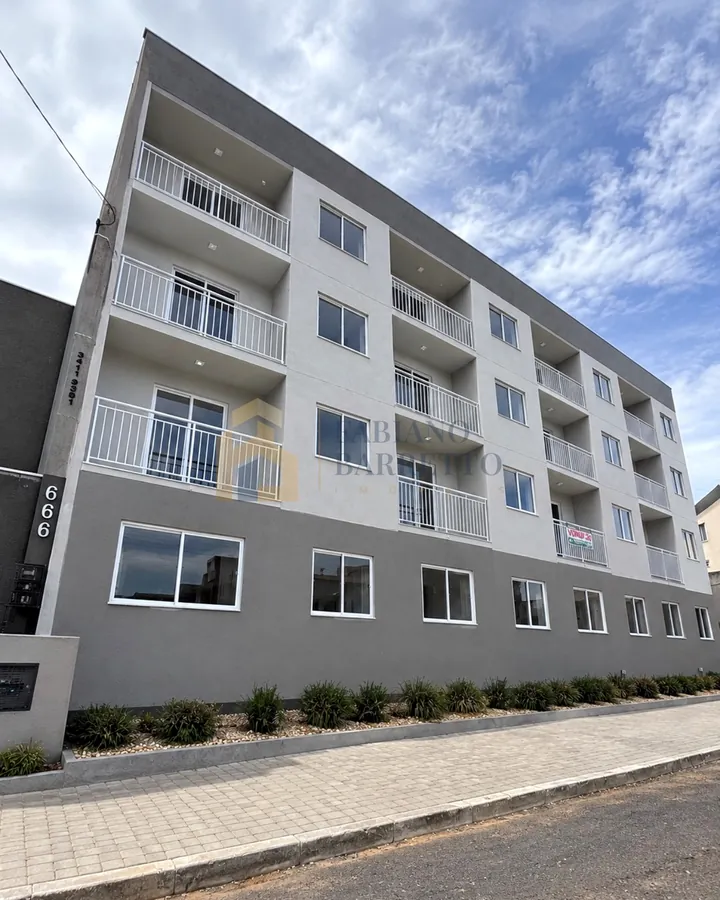
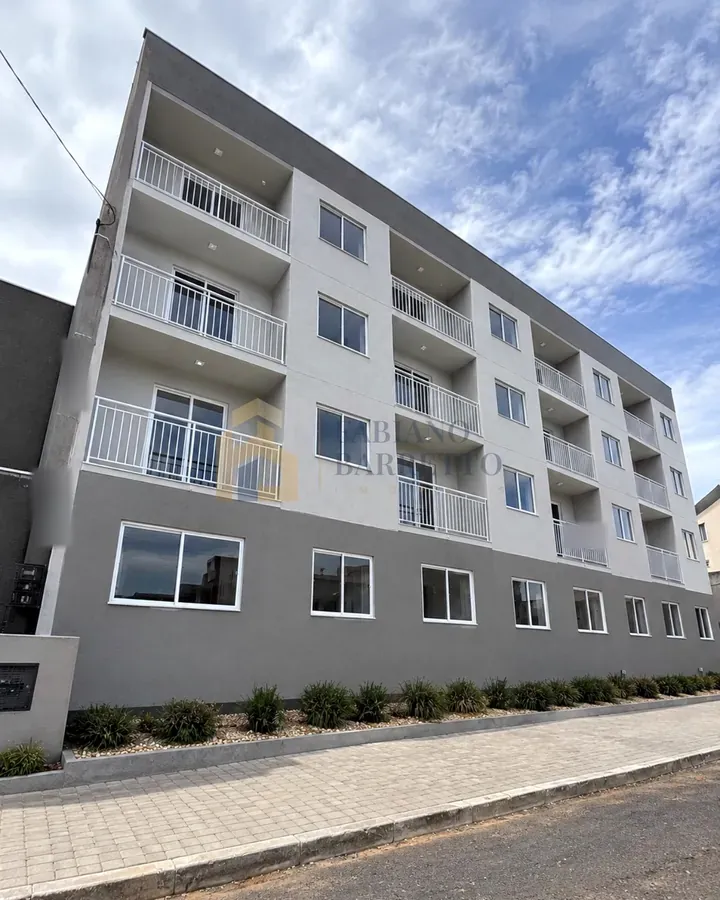
Fachadas: números de casa/prédio, telefone no poste e placa de venda borrados

Changed region(s): [[0.0306, 0.4978, 0.1222, 0.6222], [0.0611, 0.3733, 0.1222, 0.4667], [0.7639, 0.56, 0.825, 0.6222]]

diff --git a/CHANGELOG.md b/CHANGELOG.md
@@ -64,3 +64,6 @@ Responsável: agente dev-site (subordinado ao coordenador).
 
 ## 2026-11-17
 - **Imóvel novo**: Apartamento de 1 dormitório pronto para morar, Jardim Algarve, Alvorada (MCMV, a partir de R$ 162.000, 28 m², sem etiqueta, sem vaga na ficha). 5 fotos tratadas (commit 200059a); fachada e banheiro com versão 4:5 na galeria. Não repete os outros 1D do Jardim Algarve (prédio diferente nas fotos, valor e área próprios). Sem nome de rua, de empreendimento nem endereço. URL no `sitemap.xml`.
+
+## 2026-11-24
+- **Números e placas borrados nas fachadas** (para não expor endereço): desfoque forte e ilegível nos números de casa/prédio, no telefone escrito no poste e na placa de venda, mantendo a marca d'água, o tamanho (1200×900 e 720×900) e a qualidade (WebP q80). Fotos alteradas: `apartamento-1-dormitorio-jardim-algarve-em-obra/01` e `01-inteira`; `apartamento-1-dormitorio-jardim-algarve-lancamento/01` e `01-inteira`; `apartamento-1-dormitorio-jardim-aparecida-01/01` e `01-inteira`; `apartamento-1-dormitorio-jardim-algarve-pronto/01`; `apartamento-2-dormitorios-jardim-algarve-lancamento/01`.
